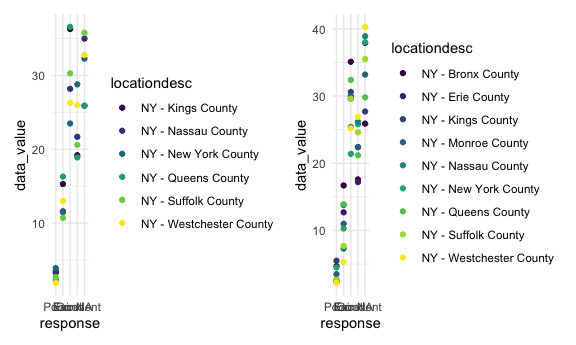
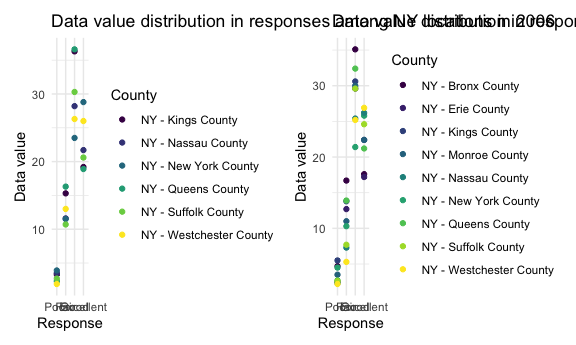
fixed plots and added more descriptions for problem 2

diff --git a/p8105_hw3_dmh2228.md b/p8105_hw3_dmh2228.md
@@ -197,46 +197,65 @@ excellent_data =
   mutate(
     mean_data_value = mean(data_value, na.rm = TRUE)
   ) 
+excellent_plot =
+  ggplot(excellent_data, aes(x = year, y = mean_data_value, group = locationabbr, color = locationabbr)) +
+  geom_line() +
+  labs(
+    title = "Average data value across locations within a state",
+    x = "Year",
+    y = "Average data value",
+    color = "State"
+    )
 
-ggplot(excellent_data, aes(x = year, y = mean_data_value, group = locationabbr, color = locationabbr)) +
-geom_line() +
-labs(
-  title = "Average data value across locations in state",
-  x = "Year",
-  y = "Average data value",
-  color = "Location")
+excellent_plot
 ```
 
 <img src="p8105_hw3_dmh2228_files/figure-gfm/unnamed-chunk-10-1.png" width="90%" />
 
-The average data value fluctuates by year for most states.
+The `average data value` fluctuates by `year` for most states. The
+`average data value` appears to decrease over time.
 
 # Distribution of data_value for responses (“Poor” to “Excellent”) among locations in NY State for 2006 and 2010
 
 ``` r
 ny2006_data =
   brfss_smart2010_df |>
-  filter(locationabbr == "NY", year == "2006")
+  filter(locationabbr == "NY", year == "2006") |>
+  drop_na(response)
 
 ny2006_plot =
 ggplot(ny2006_data, aes(x = response, y = data_value, color = locationdesc)) +
-  geom_point()
+  geom_point() +
+  labs(
+    title = "Data value distribution in responses among NY locations in 2006",
+    x = "Response",
+    y = "Data value",
+    color = "County"
+  )
 
 ny2010_data =
   brfss_smart2010_df |>
-  filter(locationabbr == "NY", year == "2010")
+  filter(locationabbr == "NY", year == "2010") |>
+  drop_na(response)
 
 ny2010_plot =
 ggplot(ny2010_data, aes(x = response, y = data_value, color = locationdesc)) +
-  geom_point()
+  geom_point() +
+  labs(
+    title = "Data value distribution in responses among NY locations in 2010",
+    x = "Response",
+    y = "Data value",
+    color = "County"
+  )
 
 ny2006_plot + ny2010_plot
 ```
 
 <img src="p8105_hw3_dmh2228_files/figure-gfm/unnamed-chunk-11-1.png" width="90%" />
 
-2006 and 2010 have a similar distribution of `data_value` for responses
-(“Poor” to “Excellent”) among locations in NY State.
+`2006` and `2010` have a similar distribution of `data_value` for
+responses (“Poor” to “Excellent”) among locations in NY State. `2010`
+has more locations within NY state.
 
 # Problem 3: NHANES
 
